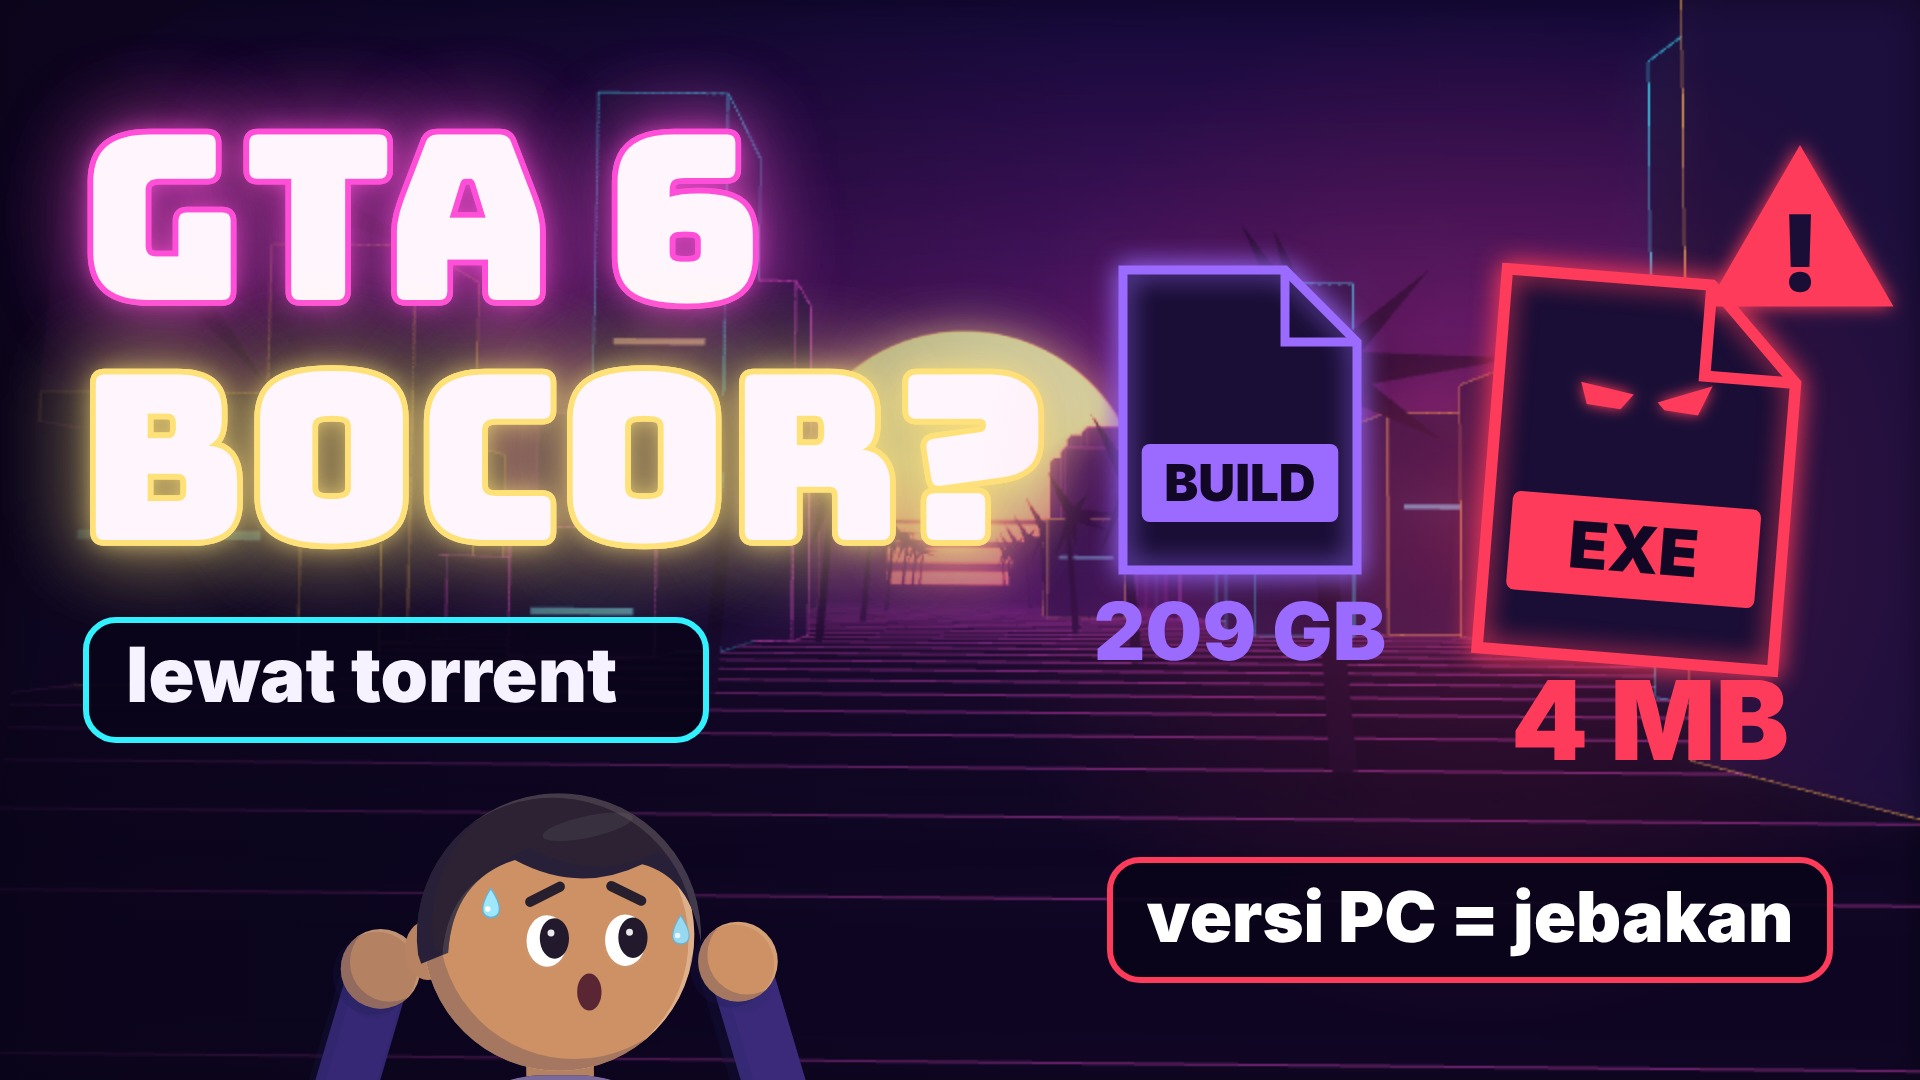
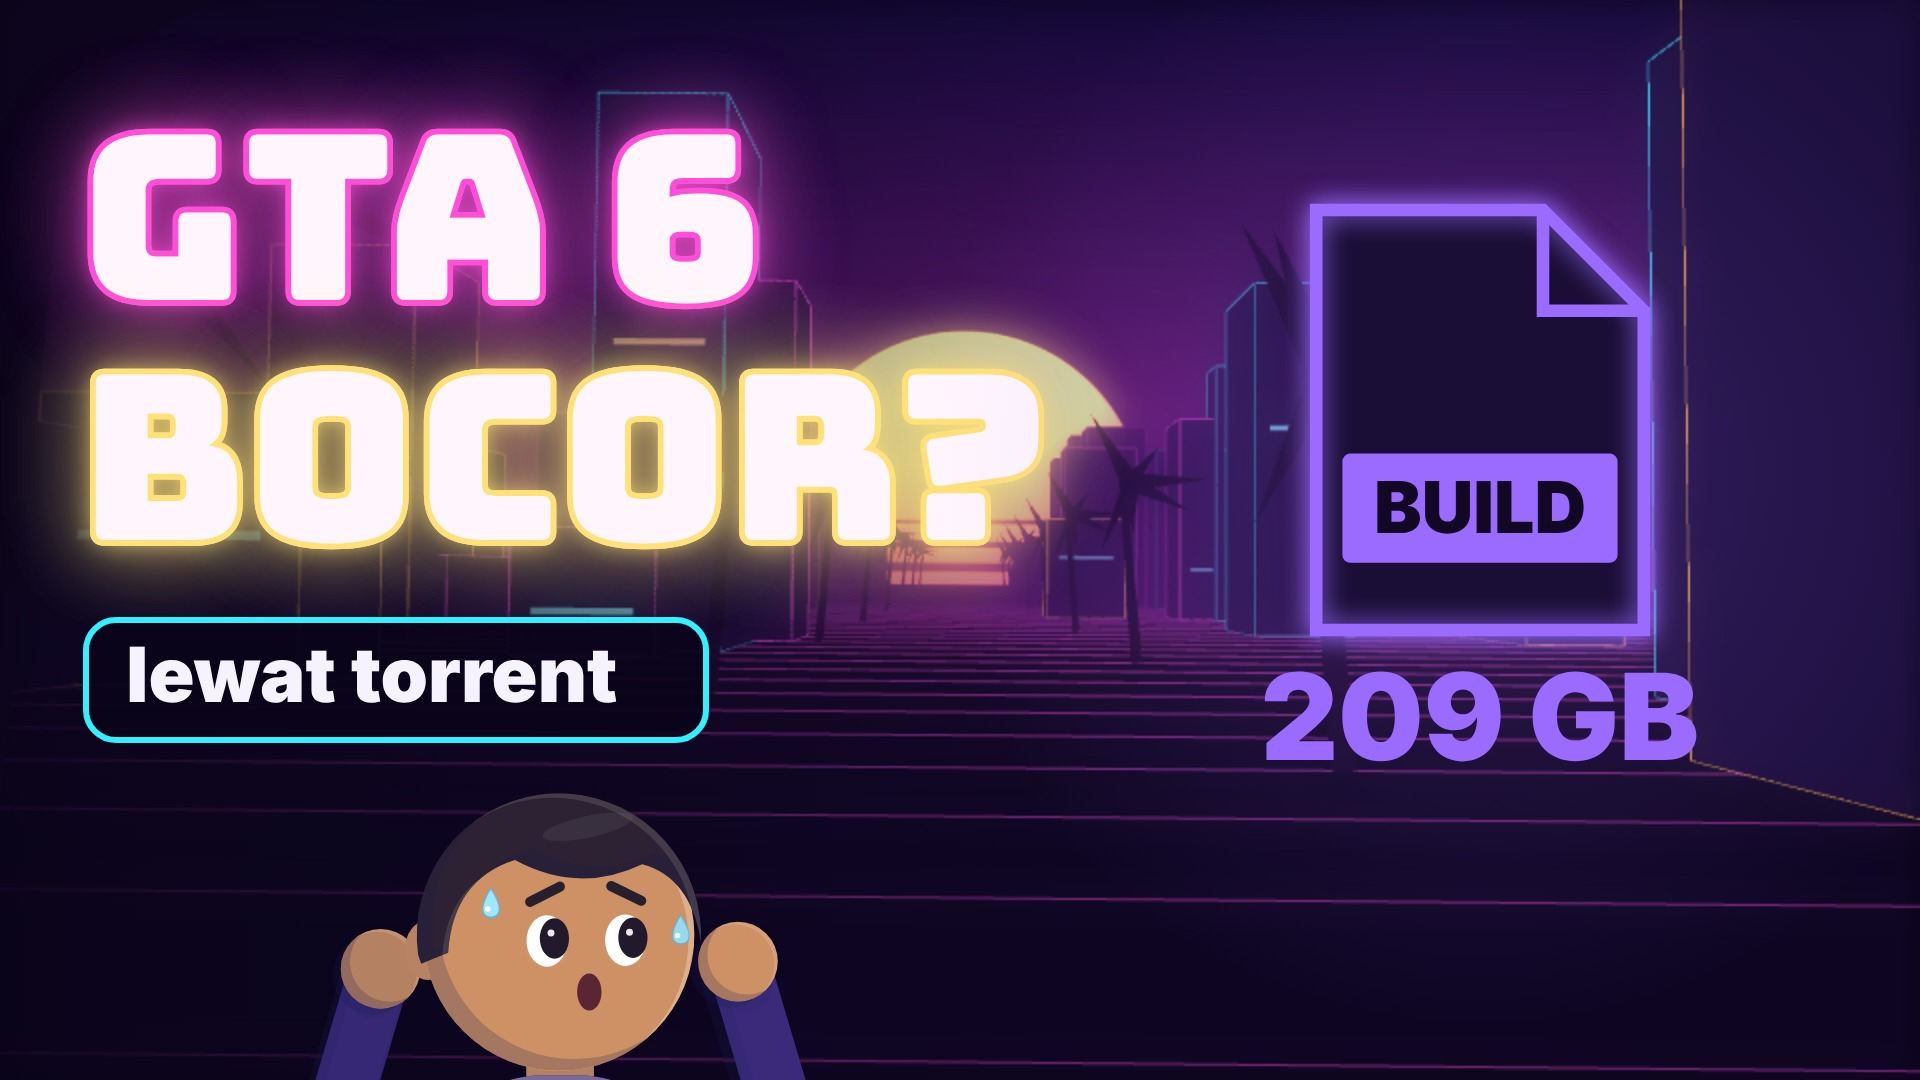
D08: thumbnail tanpa petunjuk jebakan (berkas exe dan teks versi PC dibuang)
Claude-Session: https://claude.ai/code/session_012oyg5Hi8qi4WY2sTb4edFG

Changed region(s): [[0.5625, 0.1222, 1.0, 0.7028], [0.5625, 0.7944, 0.9688, 0.9167]]

diff --git a/episodes/dok/D08/thumbnail.js b/episodes/dok/D08/thumbnail.js
@@ -1,4 +1,4 @@
-// Thumbnail D08: kota neon 3D, judul neon besar di kiri ("GTA 6 BOCOR?"), di kanan build 209 GB vs berkas .exe 4 MB bermata jahat, Raka kaget.
+// Thumbnail D08: kota neon 3D, judul neon besar di kiri ("GTA 6 BOCOR?"), di kanan build 209 GB, Raka kaget.
 const K = Kiko, U = K.d08, N = U.N, t = 3.2;
 K.kota3d.draw(ctx, t, { z: 60, dim: 0.18, sway: 0.6, bloom: 0.9 });
 const g = ctx.createLinearGradient(0, 0, 1100, 0); g.addColorStop(0, "rgba(10,4,26,0.88)"); g.addColorStop(1, "rgba(10,4,26,0)"); ctx.fillStyle = g; ctx.fillRect(0, 0, 1100, 1080);
@@ -6,13 +6,8 @@ U.neon(ctx, "GTA 6", 80, 300, 230, N.pink, {});
 U.neon(ctx, "BOCOR?", 80, 540, 230, N.gold, {});
 ctx.fillStyle = "rgba(10,4,26,0.92)"; H.rr(ctx, 86, 620, 620, 120, 30); ctx.fill(); ctx.strokeStyle = N.cyan; ctx.lineWidth = 6; ctx.stroke();
 D.txt(ctx, "lewat torrent", 126, 702, 76, { weight: 900, color: "#F6F2FF", fit: 820 });
-// kanan: build 209 GB vs exe 4 MB
-D.glow(ctx, 1480, 520, 520, N.red, 0.35);
-U.berkas(ctx, 1240, 420, 300, { jenis: "torrent", t });
-D.txt(ctx, "209 GB", 1240, 660, 80, { align: "center", weight: 900, color: N.violet });
-U.berkas(ctx, 1640, 470, 380, { jenis: "exe", t: 0.3, mata: true, rot: 0.08 });
-D.txt(ctx, "4 MB", 1650, 760, 110, { align: "center", weight: 900, color: N.red });
-U.bahaya(ctx, 1800, 230, 170, N.red);
+// kanan: build 209 GB saja (tanpa petunjuk jebakan, supaya penonton penasaran; Dewi 21 Nov)
+D.glow(ctx, 1480, 470, 560, N.violet, 0.35);
+U.berkas(ctx, 1480, 420, 420, { jenis: "torrent", t });
+D.txt(ctx, "209 GB", 1480, 760, 120, { align: "center", weight: 900, color: N.violet });
 U.raka(ctx, 560, 1800, 1000, { t, pose: "panik", face: "panik", look: [0.8, -0.3] });
-ctx.fillStyle = "rgba(10,4,26,0.92)"; H.rr(ctx, 1110, 860, 720, 120, 30); ctx.fill(); ctx.strokeStyle = N.red; ctx.lineWidth = 6; ctx.stroke();
-D.txt(ctx, "versi PC = jebakan", 1470, 942, 70, { align: "center", weight: 900, color: "#FFFFFF" });
